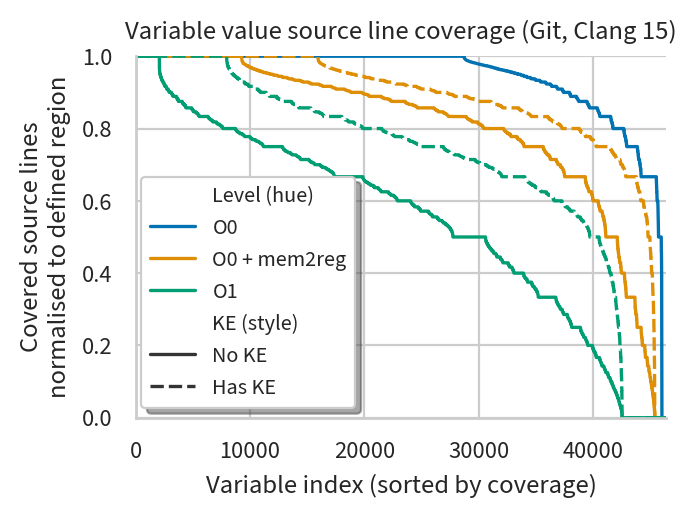
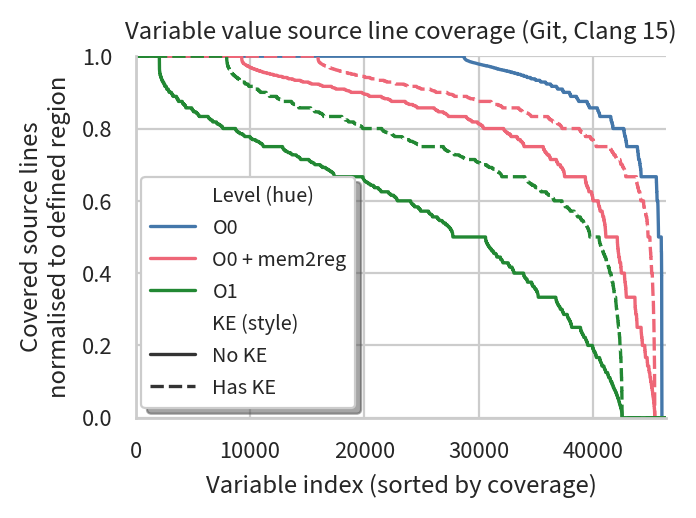
Switch to better color palette

diff --git a/data/shared/package_plots.py b/data/shared/package_plots.py
@@ -419,7 +419,7 @@ def coverage_achievability(df):
     xycoords="axes fraction",
     fontsize="small",
     horizontalalignment="center",
-    bbox=dict(boxstyle="round", facecolor="m"),
+    bbox=dict(boxstyle="round", facecolor="#DDAA33"),
   )
   g.set(
     title=f"Coverage achievability ({friendly_name})",
